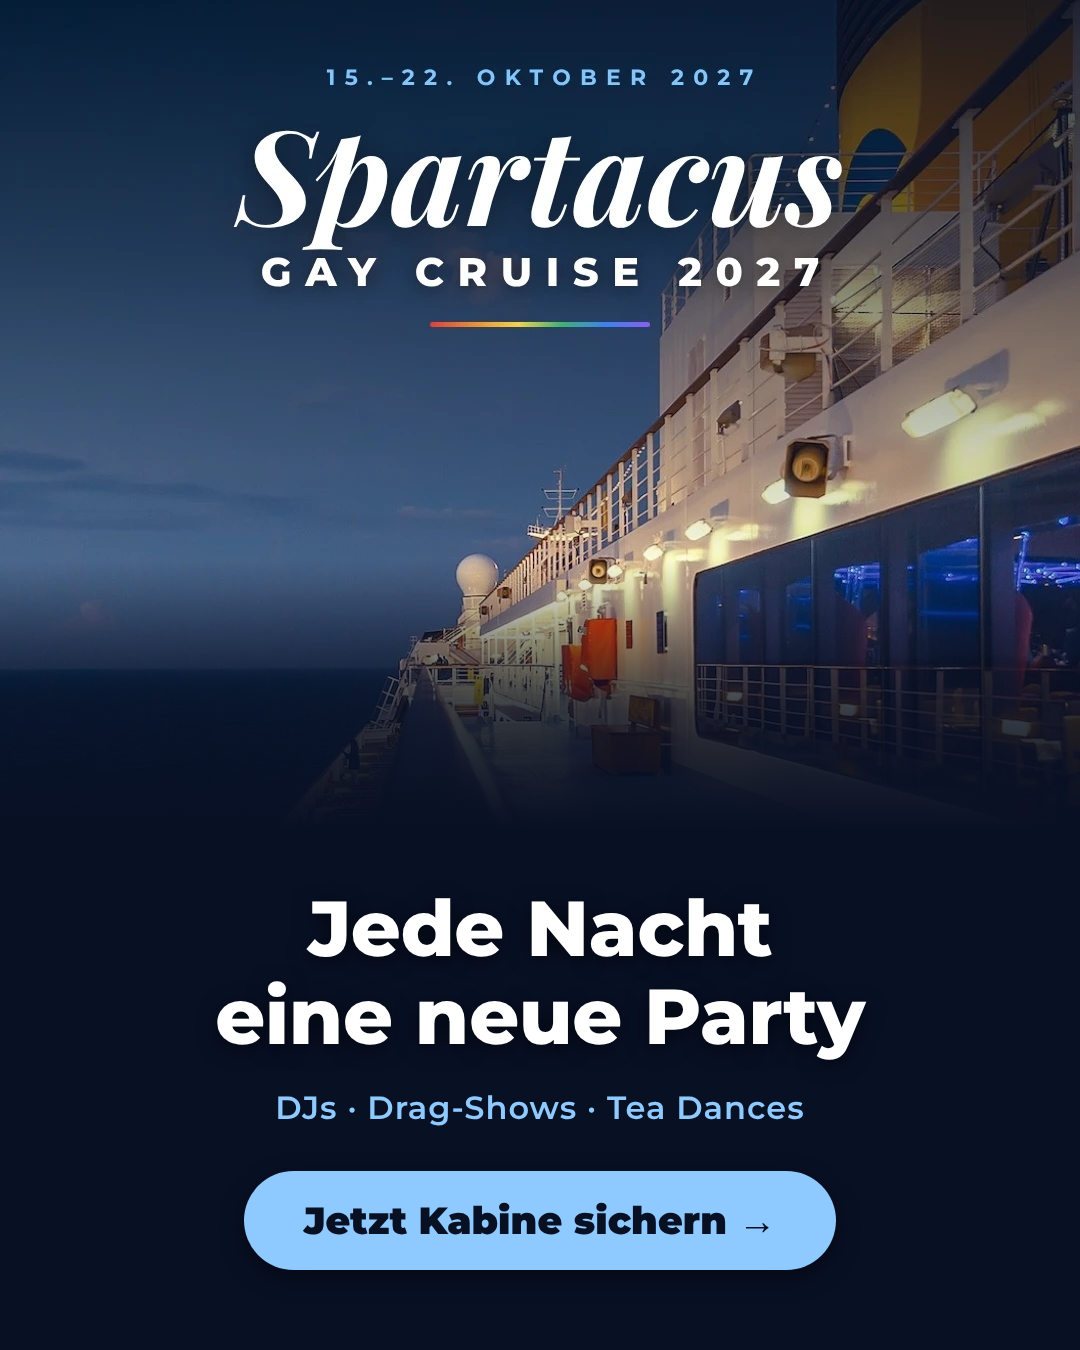
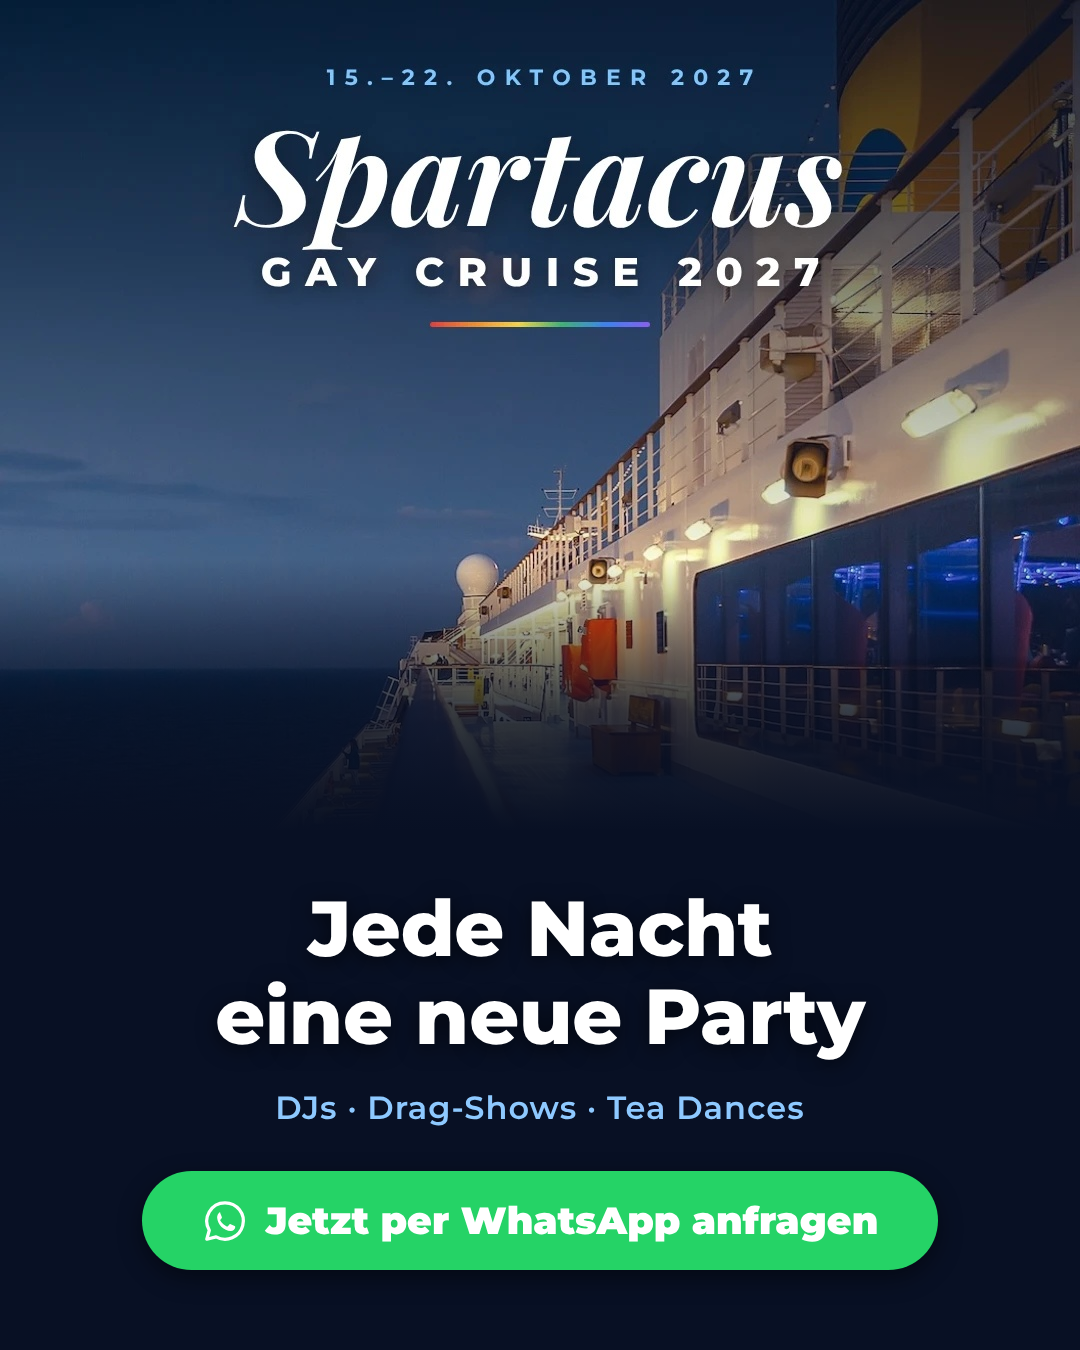
Switch Spartacus party creative CTA to WhatsApp
Claude-Session: https://claude.ai/code/session_01MYsT5PUrxmX4pbkuNXz2ag

Changed region(s): [[0.1222, 0.84, 0.8861, 0.9644]]

diff --git a/creatives/spartacus-party.html b/creatives/spartacus-party.html
@@ -9,12 +9,12 @@ body{width:1080px;height:1350px;font-family:Montserrat,sans-serif;color:#fff;ove
 .bottom{position:absolute;bottom:80px;width:100%;text-align:center}
 .h{font-weight:800;font-size:78px;line-height:1.12;letter-spacing:-.5px;text-shadow:0 4px 20px rgba(0,0,0,.6)}
 .sub{font-weight:600;font-size:32px;margin-top:28px;color:#8EC9FF;letter-spacing:1px}
-.cta{display:inline-block;margin-top:44px;background:#8EC9FF;color:#081024;border-radius:60px;padding:26px 60px;font-weight:900;font-size:38px;box-shadow:0 8px 24px rgba(0,0,0,.45)}
+.cta{display:inline-flex;align-items:center;gap:18px;margin-top:44px;background:#25D366;color:#fff;border-radius:60px;padding:26px 60px;font-weight:900;font-size:38px;box-shadow:0 8px 24px rgba(0,0,0,.45)}
 </style></head><body><div class="ad">
 <img class="bg" src="spartacus-party-top.jpg"><div class="fade"></div>
 <div class="bottom">
   <div class="h">Jede Nacht<br>eine neue Party</div>
   <div class="sub">DJs · Drag-Shows · Tea Dances</div>
-  <div class="cta">Jetzt Kabine sichern →</div>
+  <div class="cta"><svg width="46" height="46" viewBox="0 0 48 48" fill="none" stroke="#fff" stroke-width="3.4" stroke-linejoin="round"><path d="M24 5a19 19 0 0 0-16.4 28.6L5 43l9.7-2.5A19 19 0 1 0 24 5z"/><path fill="#fff" stroke="none" d="M17.6 14.6c.5 0 1 0 1.3.8l1.8 4.3c.2.4.1.9-.2 1.3l-1.3 1.6c-.3.3-.3.8 0 1.2 1.6 2.7 3.8 4.6 6.6 5.9.4.2.9.1 1.2-.2l1.6-1.9c.3-.4.8-.5 1.3-.3l4.2 2c.5.2.7.7.6 1.2-.3 2.3-2.3 4-4.6 4-7.4-.5-13.7-6.6-14.3-14 0-2.6 1.6-5.7 3.8-5.9z"/></svg>Jetzt per WhatsApp anfragen</div>
 </div>
 </div></body></html>
